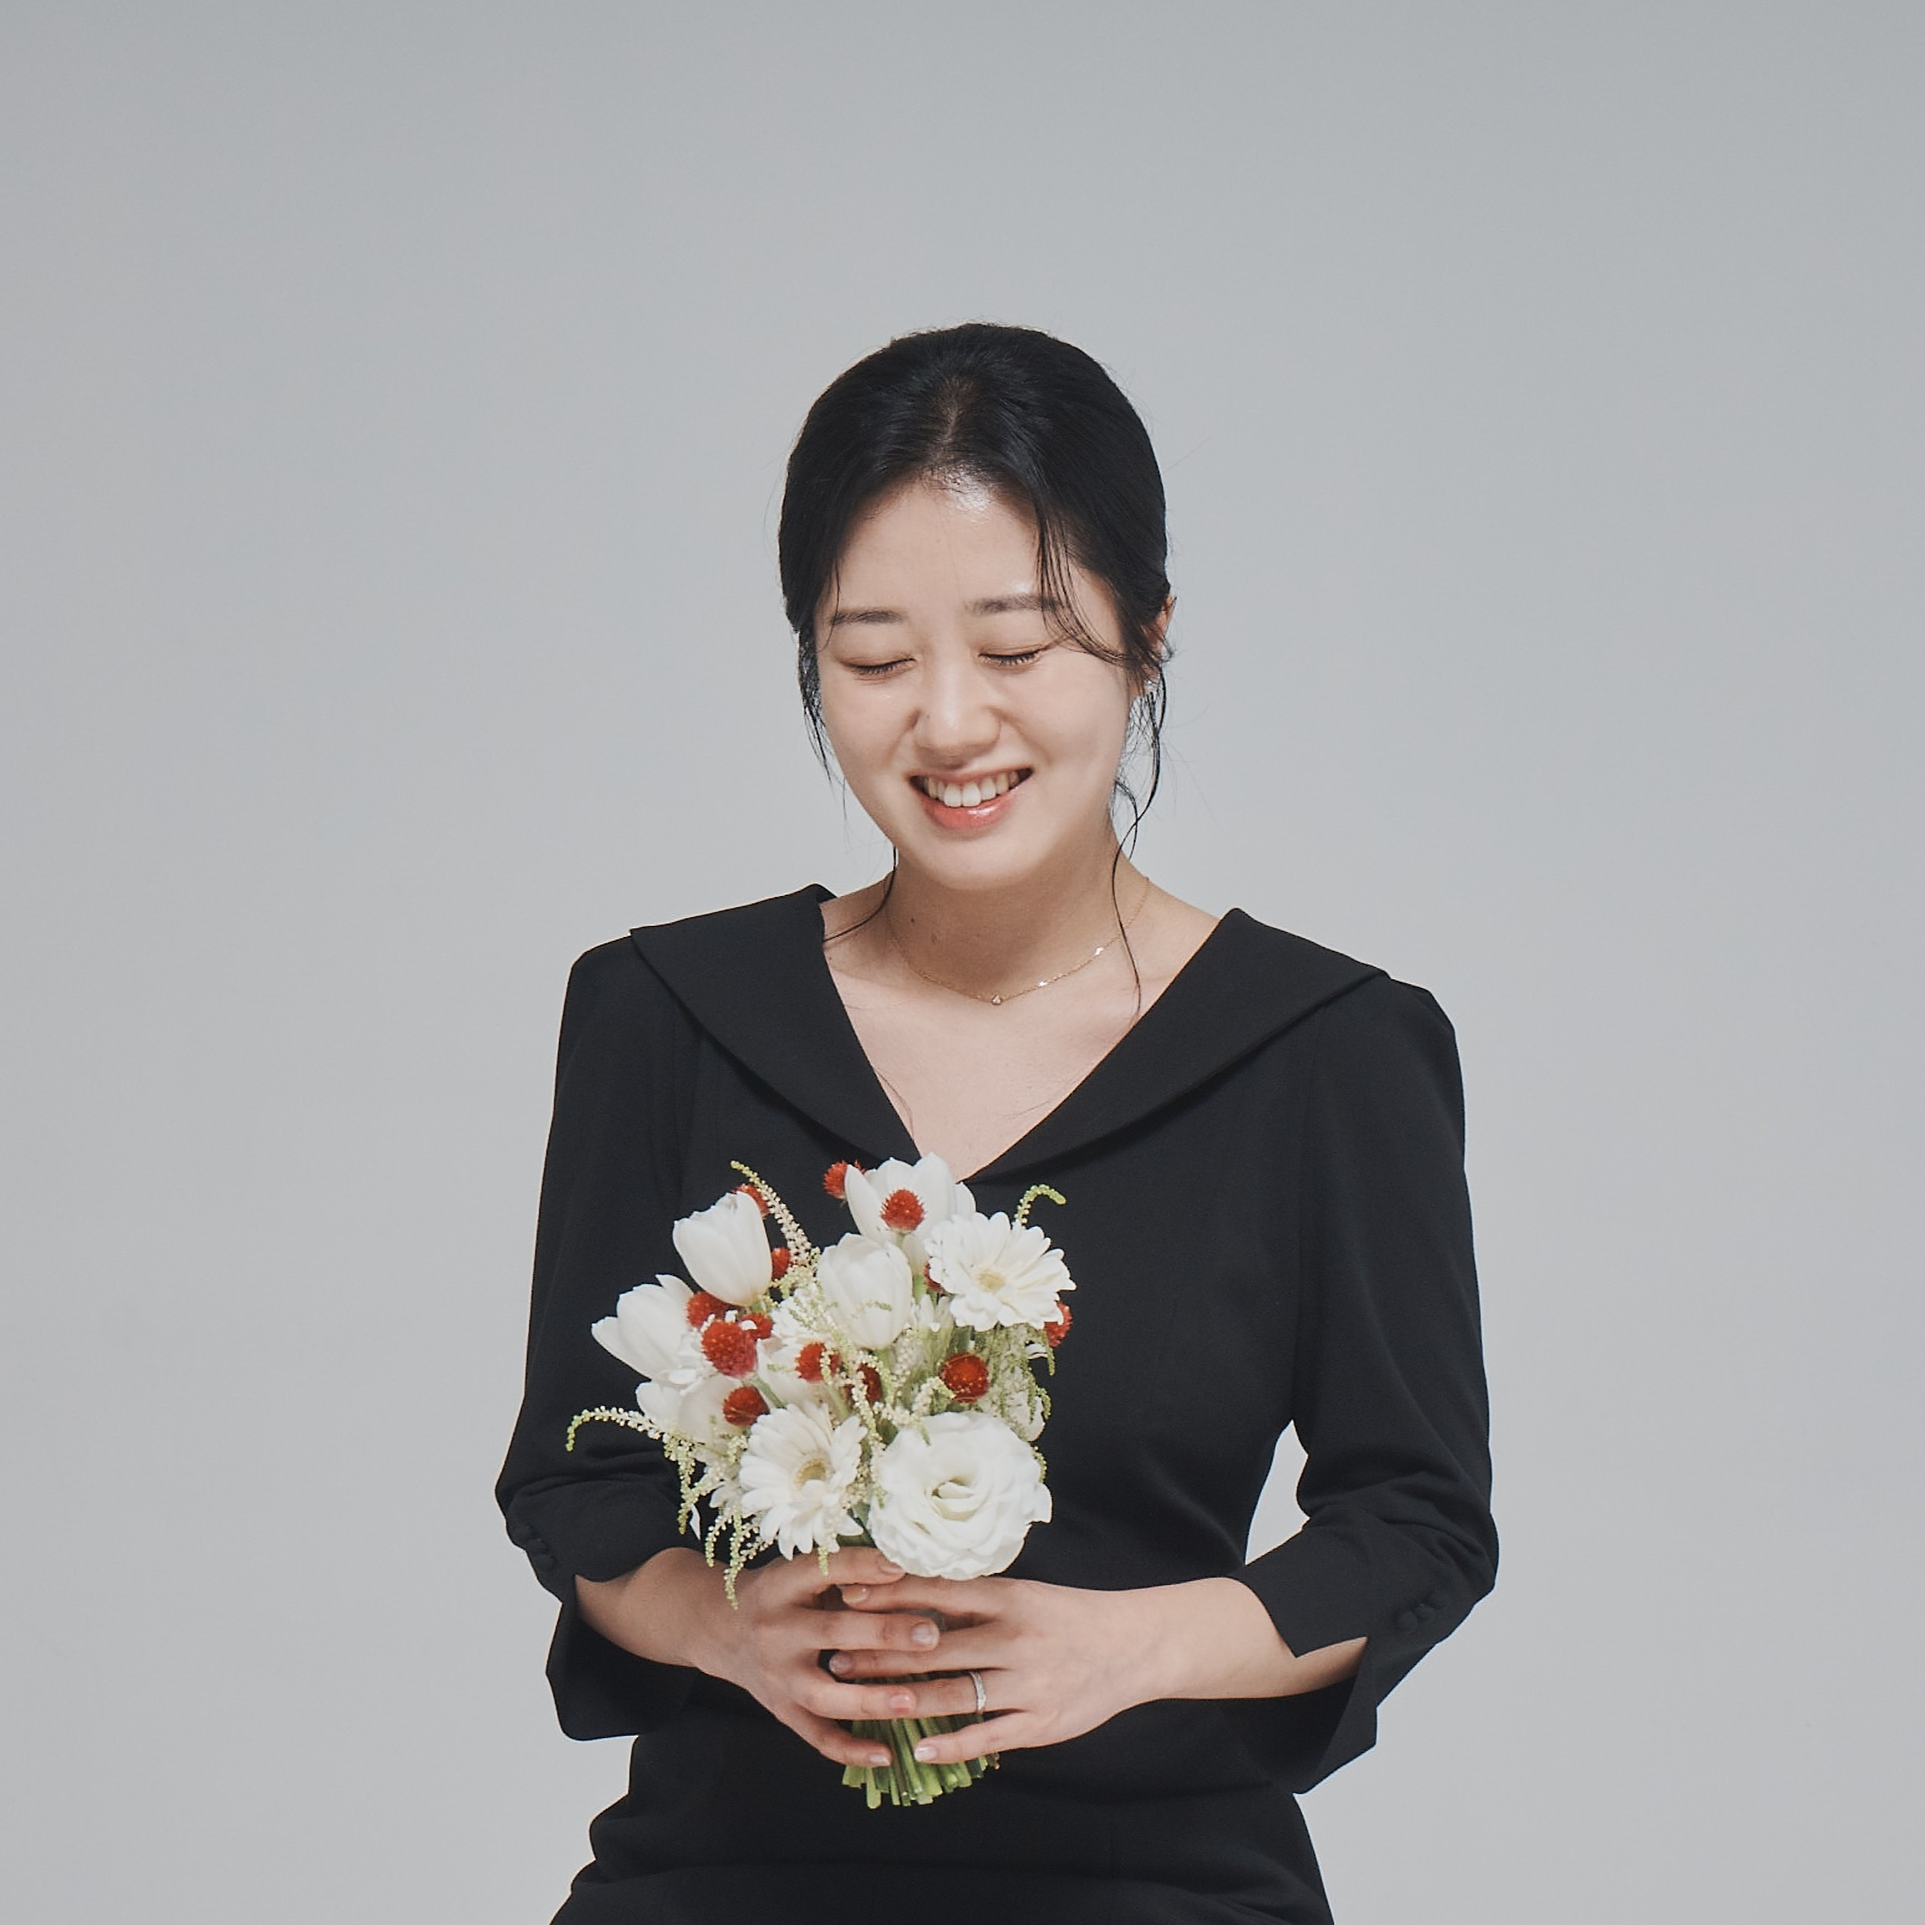
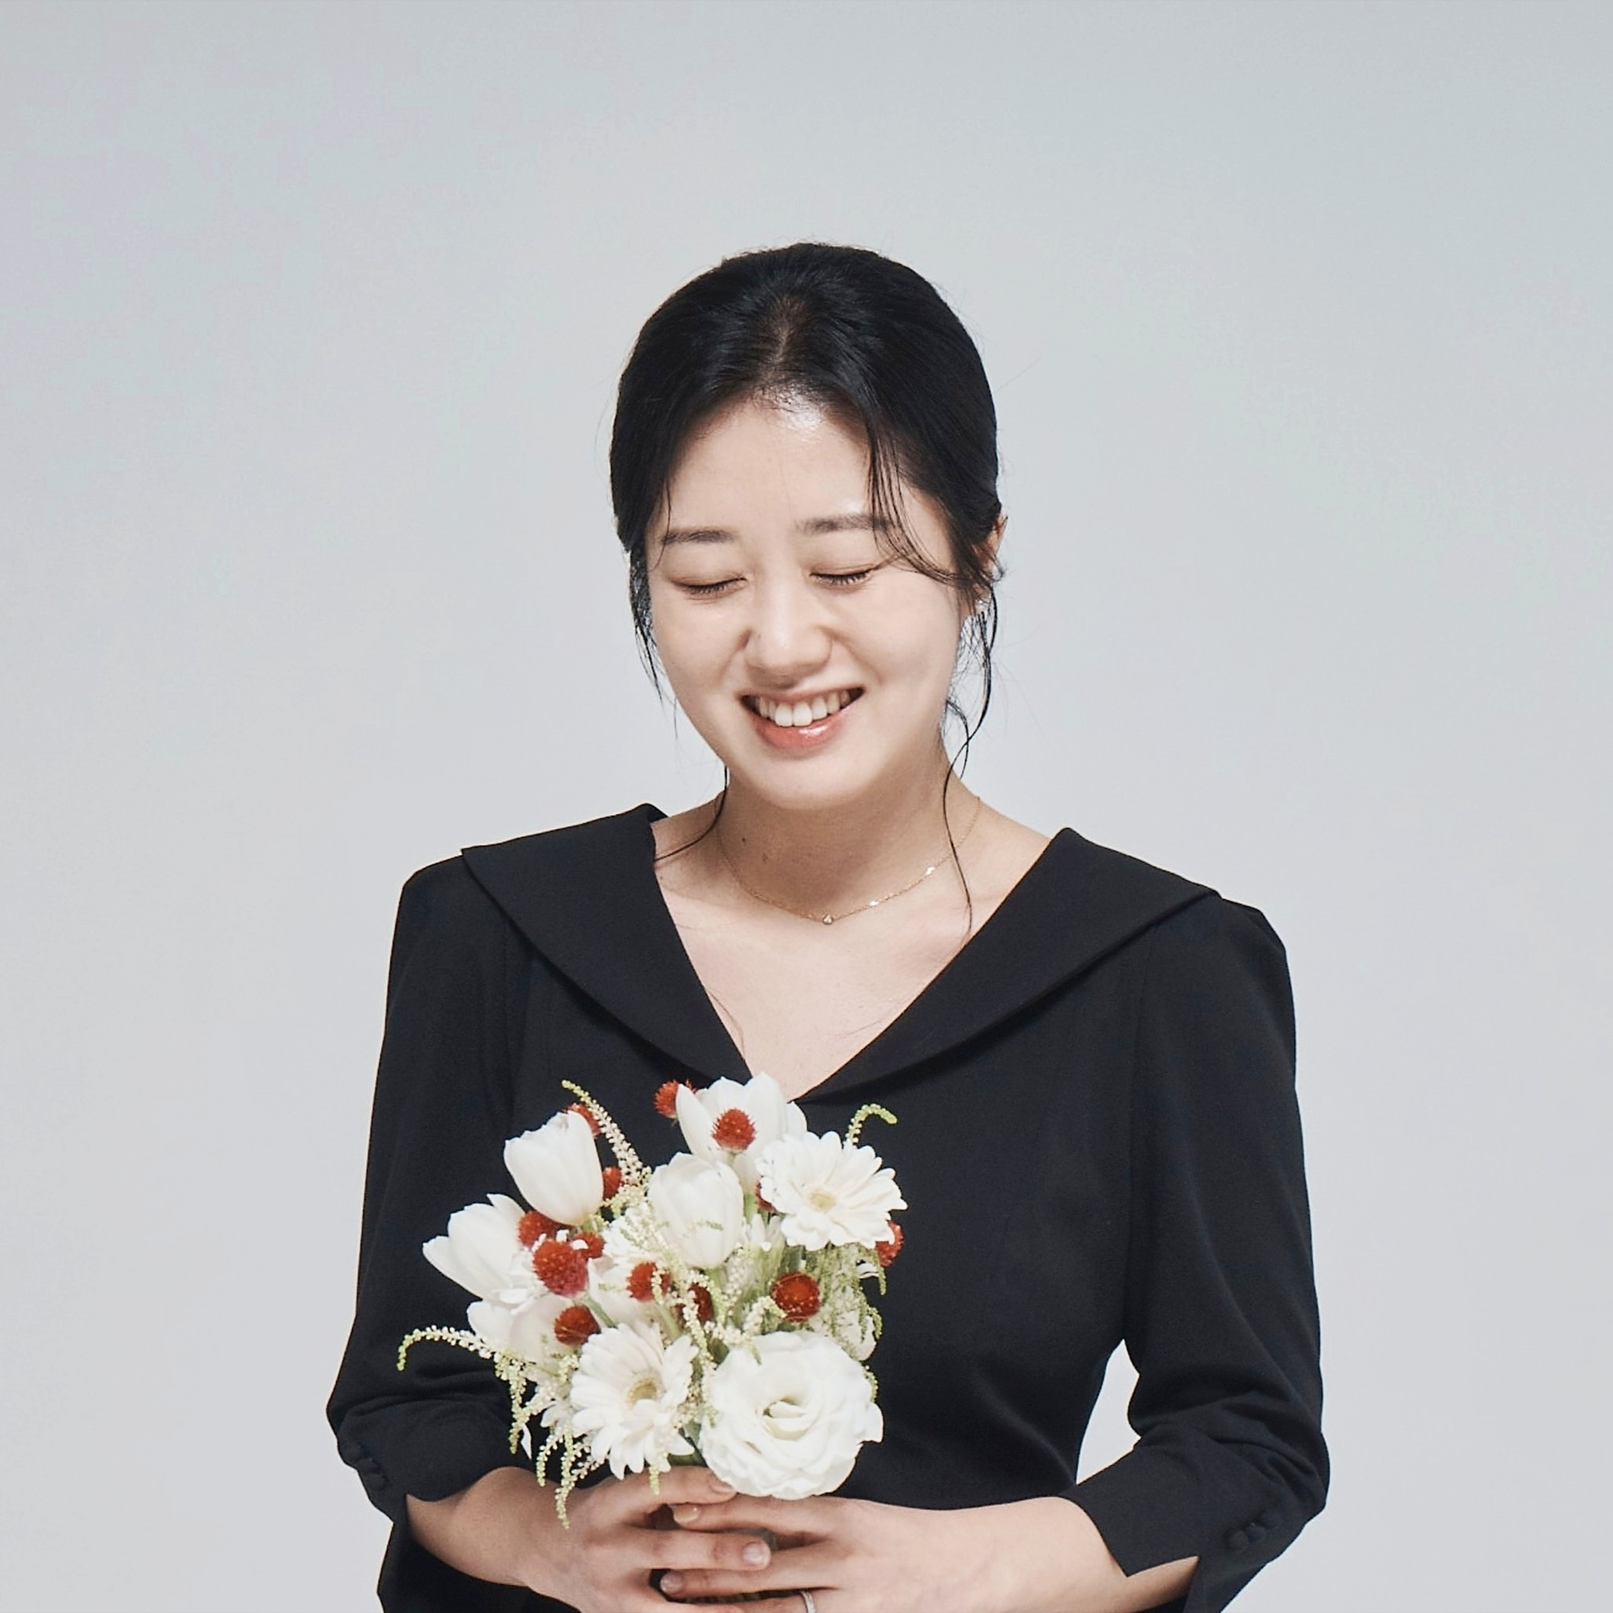
update: gallery 10장 추가 및 신랑신부 사진 업데이트

diff --git a/index.html b/index.html
@@ -456,8 +456,26 @@
 
     .gallery-grid {
       display: grid;
+      grid-template-columns: repeat(3, 1fr);
+      gap: 6px;
+    }
+
+    .gallery-grid-bottom {
+      display: grid;
       grid-template-columns: repeat(2, 1fr);
       gap: 6px;
+      margin-top: 6px;
+    }
+
+    .gallery-grid-square {
+      display: grid;
+      grid-template-columns: repeat(2, 1fr);
+      gap: 6px;
+      margin-top: 6px;
+    }
+
+    .gallery-grid-bottom .gallery-item {
+      aspect-ratio: 3 / 2;
     }
 
     .gallery-item {
@@ -707,6 +725,8 @@
     </div>
     <div class="red-divider" style="margin:40px auto;"></div>
     <div class="gallery-grid" id="gallery-grid"></div>
+    <div class="gallery-grid-bottom" id="gallery-grid-bottom"></div>
+    <div class="gallery-grid-square" id="gallery-grid-square"></div>
   </section>
 
   <!-- DATE & VENUE -->
@@ -749,7 +769,7 @@
 </div>
 
 <script>
-  const GALLERY_COUNT = 6;
+  const GALLERY_COUNT = 10;
   const images = Array.from({ length: GALLERY_COUNT }, (_, i) => ({
     src: `/images/gallery-${i + 1}.jpg`,
     alt: `갤러리 사진 ${i + 1}`
@@ -764,14 +784,34 @@
     slider.appendChild(item);
   });
 
-  // Build gallery
+  // Build gallery top (images 1–6, 3열)
   const grid = document.getElementById('gallery-grid');
-  images.forEach((img, idx) => {
+  images.slice(0, 6).forEach((img, idx) => {
     const item = document.createElement('div');
     item.className = 'gallery-item';
     item.innerHTML = `<img src="${img.src}" alt="${img.alt}" loading="lazy" onerror="this.style.display='none'; this.nextElementSibling.style.display='flex'"><span class="gallery-num" style="display:none">${idx + 1}</span>`;
     item.addEventListener('click', () => openLightbox(idx));
     grid.appendChild(item);
+  });
+
+  // Build gallery bottom (images 7–8, 2열 3:2 비율)
+  const gridBottom = document.getElementById('gallery-grid-bottom');
+  images.slice(6, 8).forEach((img, idx) => {
+    const item = document.createElement('div');
+    item.className = 'gallery-item';
+    item.innerHTML = `<img src="${img.src}" alt="${img.alt}" loading="lazy" onerror="this.style.display='none'; this.nextElementSibling.style.display='flex'"><span class="gallery-num" style="display:none">${idx + 7}</span>`;
+    item.addEventListener('click', () => openLightbox(idx + 6));
+    gridBottom.appendChild(item);
+  });
+
+  // Build gallery square (images 9–10, 2열 1:1 비율)
+  const gridSquare = document.getElementById('gallery-grid-square');
+  images.slice(8).forEach((img, idx) => {
+    const item = document.createElement('div');
+    item.className = 'gallery-item';
+    item.innerHTML = `<img src="${img.src}" alt="${img.alt}" loading="lazy" onerror="this.style.display='none'; this.nextElementSibling.style.display='flex'"><span class="gallery-num" style="display:none">${idx + 9}</span>`;
+    item.addEventListener('click', () => openLightbox(idx + 8));
+    gridSquare.appendChild(item);
   });
 
   // Lightbox
